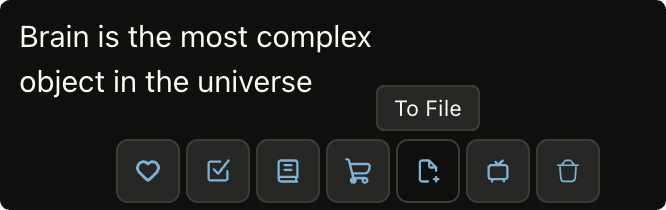
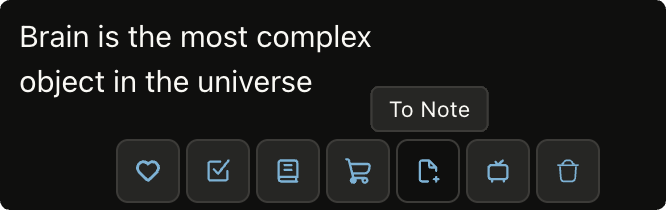
fix moved to To Note, refined Readme

Changed region(s): [[0.5405, 0.4, 0.7508, 0.6286]]

diff --git a/web/chat.js b/web/chat.js
@@ -846,7 +846,7 @@ async function renderMessages() {
                                 <path d="M13 3H8.2C7.0799 3 6.51984 3 6.09202 3.21799C5.71569 3.40973 5.40973 3.71569 5.21799 4.09202C5 4.51984 5 5.0799 5 6.2V17.8C5 18.9201 5 19.4802 5.21799 19.908C5.40973 20.2843 5.71569 20.5903 6.09202 20.782C6.51984 21 7.0799 21 8.2 21H12M13 3L19 9M13 3V7.4C13 7.96005 13 8.24008 13.109 8.45399C13.2049 8.64215 13.3578 8.79513 13.546 8.89101C13.7599 9 14.0399 9 14.6 9H19M19 9V12M17 19H21M19 17V21" stroke-width="2" stroke-linecap="round" stroke-linejoin="round" fill="none"/>
                             </svg>
                         </button>
-                    <span class="btn-label">To File</span>
+                    <span class="btn-label">To Note</span>
                     </div>
                     
                     <div class="btn-wrapper">

diff --git a/server/bot_test.go b/server/bot_test.go
@@ -1778,7 +1778,7 @@ func TestShowMoveTo(t *testing.T) {
 			{Name: "📆 To a day", Cmd: tg.Cmd{Name: "sc_day", Params: []string{h}, Type: "cmd"}},
 		},
 		[]tg.Btn{
-			{Name: "📄 To File", Cmd: tg.Cmd{Name: "to_file", Params: []string{h}, Type: "cmd"}},
+			{Name: "📄 To Note", Cmd: tg.Cmd{Name: "to_file", Params: []string{h}, Type: "cmd"}},
 			{Name: "💚 To Journal", Cmd: tg.Cmd{Name: "mv_to_journal", Params: []string{h}, Type: "cmd"}},
 		},
 	},
@@ -2953,7 +2953,7 @@ func TestSaveToNewTask(t *testing.T) {
 			tg.NewBtn("📆 To a day", tg.NewCmd("sc_day", []string{inboxMsgHash(t, userFS, 0)})),
 		),
 		tg.NewRow(
-			tg.NewBtn("📄 To File", tg.NewCmd("to_file", []string{inboxMsgHash(t, userFS, 0)})),
+			tg.NewBtn("📄 To Note", tg.NewCmd("to_file", []string{inboxMsgHash(t, userFS, 0)})),
 			tg.NewBtn("💚 To Journal", tg.NewCmd("mv_to_journal", []string{inboxMsgHash(t, userFS, 0)})),
 			tg.NewBtn("👌", tg.NewCmd("home", []string{})),
 		),
@@ -3024,7 +3024,7 @@ func TestSaveToExistingFile(t *testing.T) {
 			tg.NewBtn("📆 To a day", tg.NewCmd("sc_day", []string{inboxMsgHash(t, userFS, 1)})),
 		),
 		tg.NewRow(
-			tg.NewBtn("📄 To File", tg.NewCmd("to_file", []string{inboxMsgHash(t, userFS, 1)})),
+			tg.NewBtn("📄 To Note", tg.NewCmd("to_file", []string{inboxMsgHash(t, userFS, 1)})),
 			tg.NewBtn("💚 To Journal", tg.NewCmd("mv_to_journal", []string{inboxMsgHash(t, userFS, 1)})),
 			tg.NewBtn("👌", tg.NewCmd("home", []string{})),
 		),
@@ -3111,7 +3111,7 @@ func TestSaveToExistingFileModeTasks(t *testing.T) {
 			tg.NewBtn("📆 To a day", tg.NewCmd("sc_day", []string{inboxMsgHash(t, userFS, 1)})),
 		),
 		tg.NewRow(
-			tg.NewBtn("📄 To File", tg.NewCmd("to_file", []string{inboxMsgHash(t, userFS, 1)})),
+			tg.NewBtn("📄 To Note", tg.NewCmd("to_file", []string{inboxMsgHash(t, userFS, 1)})),
 			tg.NewBtn("💚 To Journal", tg.NewCmd("mv_to_journal", []string{inboxMsgHash(t, userFS, 1)})),
 			tg.NewBtn("👌", tg.NewCmd("home", []string{})),
 		),
@@ -3199,7 +3199,7 @@ func TestSaveToNewFile(t *testing.T) {
 			tg.NewBtn("📆 To a day", tg.NewCmd("sc_day", []string{inboxMsgHash(t, userFS, 1)})),
 		),
 		tg.NewRow(
-			tg.NewBtn("📄 To File", tg.NewCmd("to_file", []string{inboxMsgHash(t, userFS, 1)})),
+			tg.NewBtn("📄 To Note", tg.NewCmd("to_file", []string{inboxMsgHash(t, userFS, 1)})),
 			tg.NewBtn("💚 To Journal", tg.NewCmd("mv_to_journal", []string{inboxMsgHash(t, userFS, 1)})),
 			tg.NewBtn("👌", tg.NewCmd("home", []string{})),
 		),
@@ -3280,7 +3280,7 @@ func TestSaveToNewDirFull(t *testing.T) {
 			tg.NewBtn("📆 To a day", tg.NewCmd("sc_day", []string{inboxMsgHash(t, userFS, 0)})),
 		),
 		tg.NewRow(
-			tg.NewBtn("📄 To File", tg.NewCmd("to_file", []string{inboxMsgHash(t, userFS, 0)})),
+			tg.NewBtn("📄 To Note", tg.NewCmd("to_file", []string{inboxMsgHash(t, userFS, 0)})),
 			tg.NewBtn("💚 To Journal", tg.NewCmd("mv_to_journal", []string{inboxMsgHash(t, userFS, 0)})),
 			tg.NewBtn("👌", tg.NewCmd("home", []string{})),
 		),
@@ -3366,7 +3366,7 @@ func TestSaveToNewDir(t *testing.T) {
 			tg.NewBtn("📆 To a day", tg.NewCmd("sc_day", []string{inboxMsgHash(t, userFS, 0)})),
 		),
 		tg.NewRow(
-			tg.NewBtn("📄 To File", tg.NewCmd("to_file", []string{inboxMsgHash(t, userFS, 0)})),
+			tg.NewBtn("📄 To Note", tg.NewCmd("to_file", []string{inboxMsgHash(t, userFS, 0)})),
 			tg.NewBtn("💚 To Journal", tg.NewCmd("mv_to_journal", []string{inboxMsgHash(t, userFS, 0)})),
 			tg.NewBtn("👌", tg.NewCmd("home", []string{})),
 		),
@@ -3454,7 +3454,7 @@ func TestSaveToNewMultilineFile(t *testing.T) {
 			tg.NewBtn("📆 To a day", tg.NewCmd("sc_day", []string{inboxMsgHash(t, userFS, 0)})),
 		),
 		tg.NewRow(
-			tg.NewBtn("📄 To File", tg.NewCmd("to_file", []string{inboxMsgHash(t, userFS, 0)})),
+			tg.NewBtn("📄 To Note", tg.NewCmd("to_file", []string{inboxMsgHash(t, userFS, 0)})),
 			tg.NewBtn("💚 To Journal", tg.NewCmd("mv_to_journal", []string{inboxMsgHash(t, userFS, 0)})),
 			tg.NewBtn("👌", tg.NewCmd("home", []string{})),
 		),
@@ -3536,7 +3536,7 @@ func TestSaveToNewCustomFile(t *testing.T) {
 			tg.NewBtn("📆 To a day", tg.NewCmd("sc_day", []string{inboxMsgHash(t, userFS, 0)})),
 		),
 		tg.NewRow(
-			tg.NewBtn("📄 To File", tg.NewCmd("to_file", []string{inboxMsgHash(t, userFS, 0)})),
+			tg.NewBtn("📄 To Note", tg.NewCmd("to_file", []string{inboxMsgHash(t, userFS, 0)})),
 			tg.NewBtn("💚 To Journal", tg.NewCmd("mv_to_journal", []string{inboxMsgHash(t, userFS, 0)})),
 			tg.NewBtn("👌", tg.NewCmd("home", []string{})),
 		),
@@ -3617,7 +3617,7 @@ func TestSaveToRecentFile(t *testing.T) {
 			tg.NewBtn("📆 To a day", tg.NewCmd("sc_day", []string{inboxMsgHash(t, userFS, 0)})),
 		),
 		tg.NewRow(
-			tg.NewBtn("📄 To File", tg.NewCmd("to_file", []string{inboxMsgHash(t, userFS, 0)})),
+			tg.NewBtn("📄 To Note", tg.NewCmd("to_file", []string{inboxMsgHash(t, userFS, 0)})),
 			tg.NewBtn("💚 To Journal", tg.NewCmd("mv_to_journal", []string{inboxMsgHash(t, userFS, 0)})),
 			tg.NewBtn("👌", tg.NewCmd("home", []string{})),
 		),
@@ -3663,7 +3663,7 @@ func TestSaveToRecentFile(t *testing.T) {
 			tg.NewBtn("📆 To a day", tg.NewCmd("sc_day", []string{inboxMsgHash(t, userFS, 0)})),
 		),
 		tg.NewRow(
-			tg.NewBtn("📄 To File", tg.NewCmd("to_file", []string{inboxMsgHash(t, userFS, 0)})),
+			tg.NewBtn("📄 To Note", tg.NewCmd("to_file", []string{inboxMsgHash(t, userFS, 0)})),
 			tg.NewBtn("💚 To Journal", tg.NewCmd("mv_to_journal", []string{inboxMsgHash(t, userFS, 0)})),
 			tg.NewBtn("⭐️ Text", tg.NewCmd("mf", []string{"23200", inboxMsgHash(t, userFS, 0)})),
 		),

diff --git a/server/i18n/strings.go b/server/i18n/strings.go
@@ -12,7 +12,7 @@ const (
 	StrToLater         = "⏳ To later"
 	StrToADay          = "📆 To a day"
 	StrToChecklist     = "☑️ To Checklist"
-	StrToFile          = "📄 To File"
+	StrToFile          = "📄 To Note"
 	StrToJournal       = "💚 To Journal"
 	StrToRead          = "📚 To Read"
 	StrToShop          = "🛒 To Shop"

diff --git a/README.md b/README.md
@@ -51,7 +51,7 @@ Select where to save:
     <img src="https://github.com/zakirullin/files.md/raw/main/web/img/actions.png" width="350"/>
 </div>
 
-You can save to notes, journal and checklists.
+You can save notes, journal and checklists.
 
 ## Grow your knowledge base 🌱
 Connect ideas. Let them compound. Think through.  
@@ -87,7 +87,7 @@ To achieve all that, **you'll have to use your brain**, not advanced templates o
 
 My friends and I have been using this simple setup for five years, and it works well.
 
-## Taking notes in chatbot
+## Save things in the chatbot
 Open the chat and send a message:
 <div align="center">
     <img src="https://github.com/zakirullin/files.md/raw/main/web/img/note1.png" alt="Telegram Bot" title="Telegram Bot" width="350"/>
@@ -99,6 +99,8 @@ Move it anywhere later:
 </div>
 
 With this flow you can save anything.
+
+[Telegram Bot](https://t.me/FilesMDBot)  
 
 **Other messengers will follow**
 